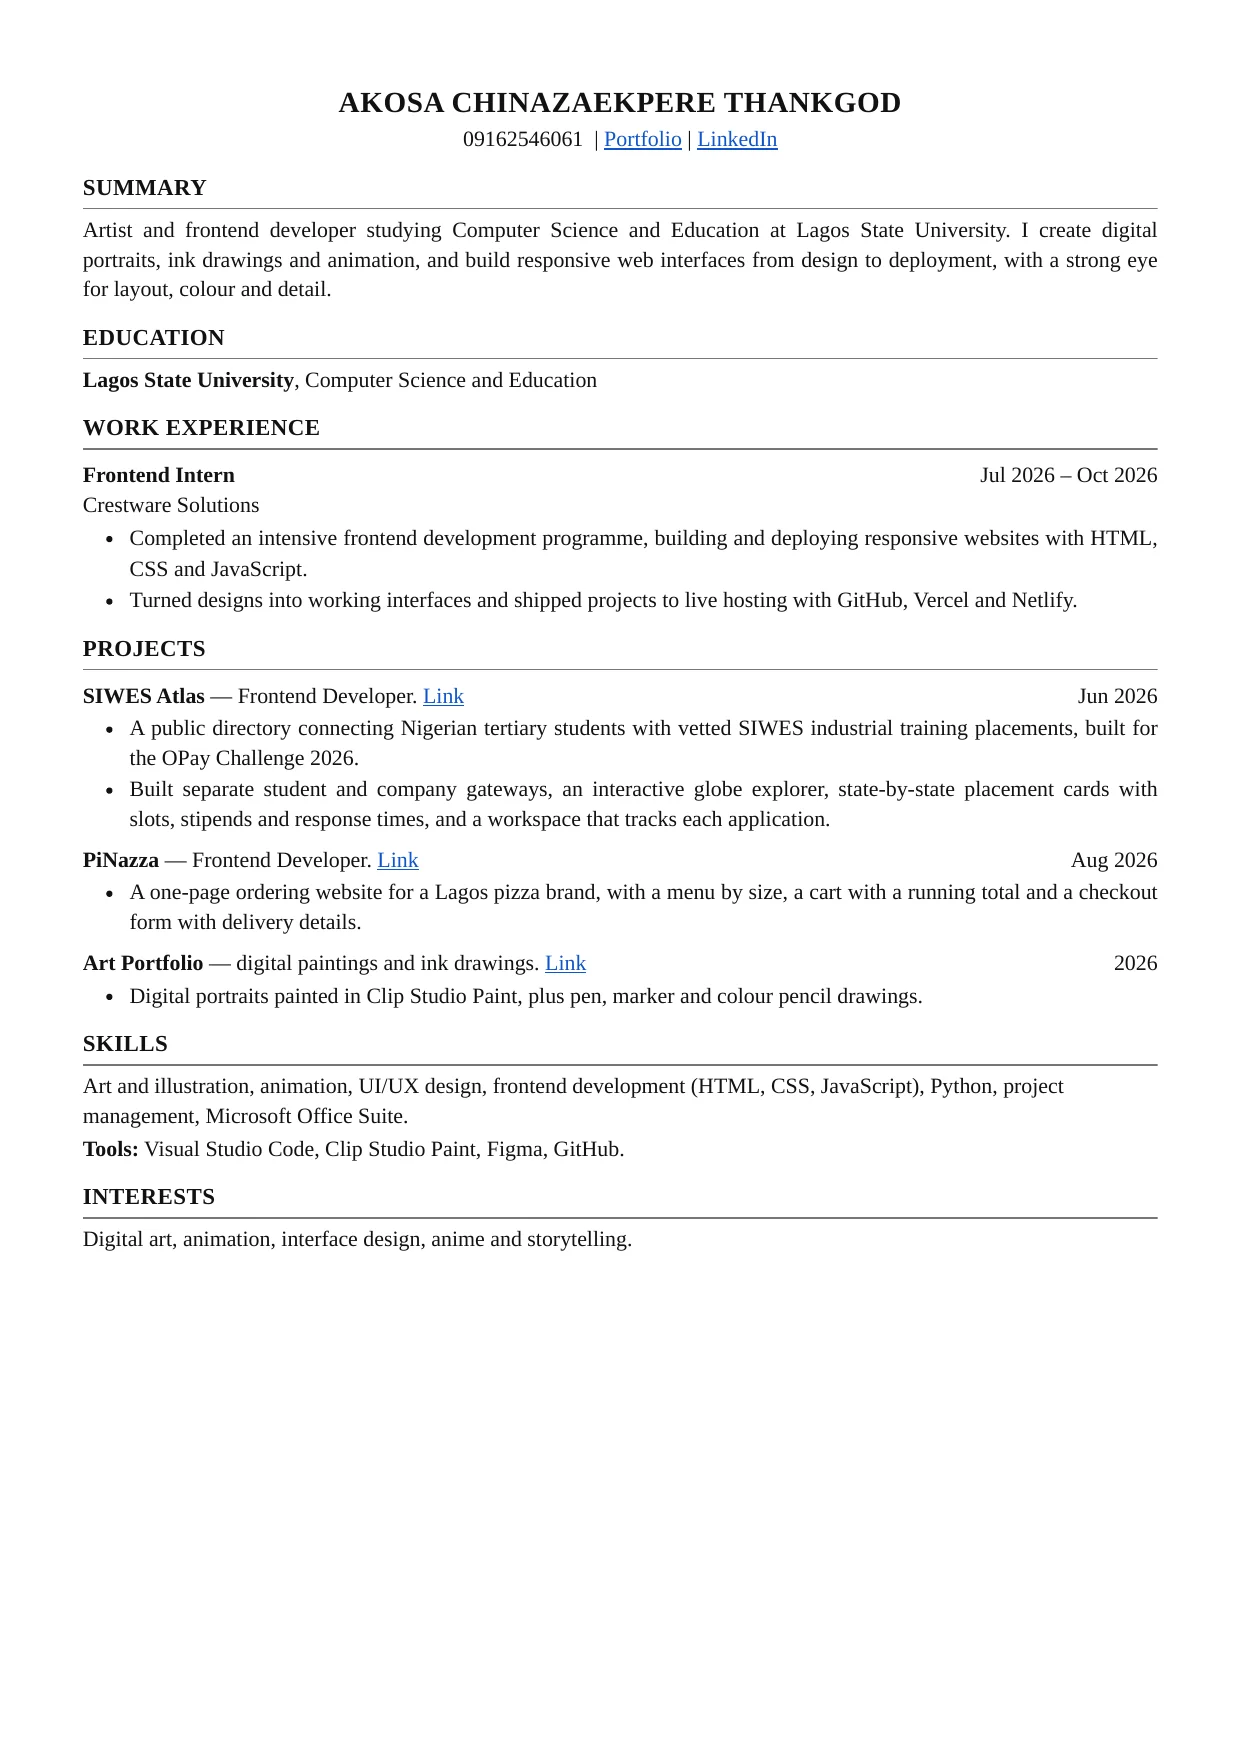
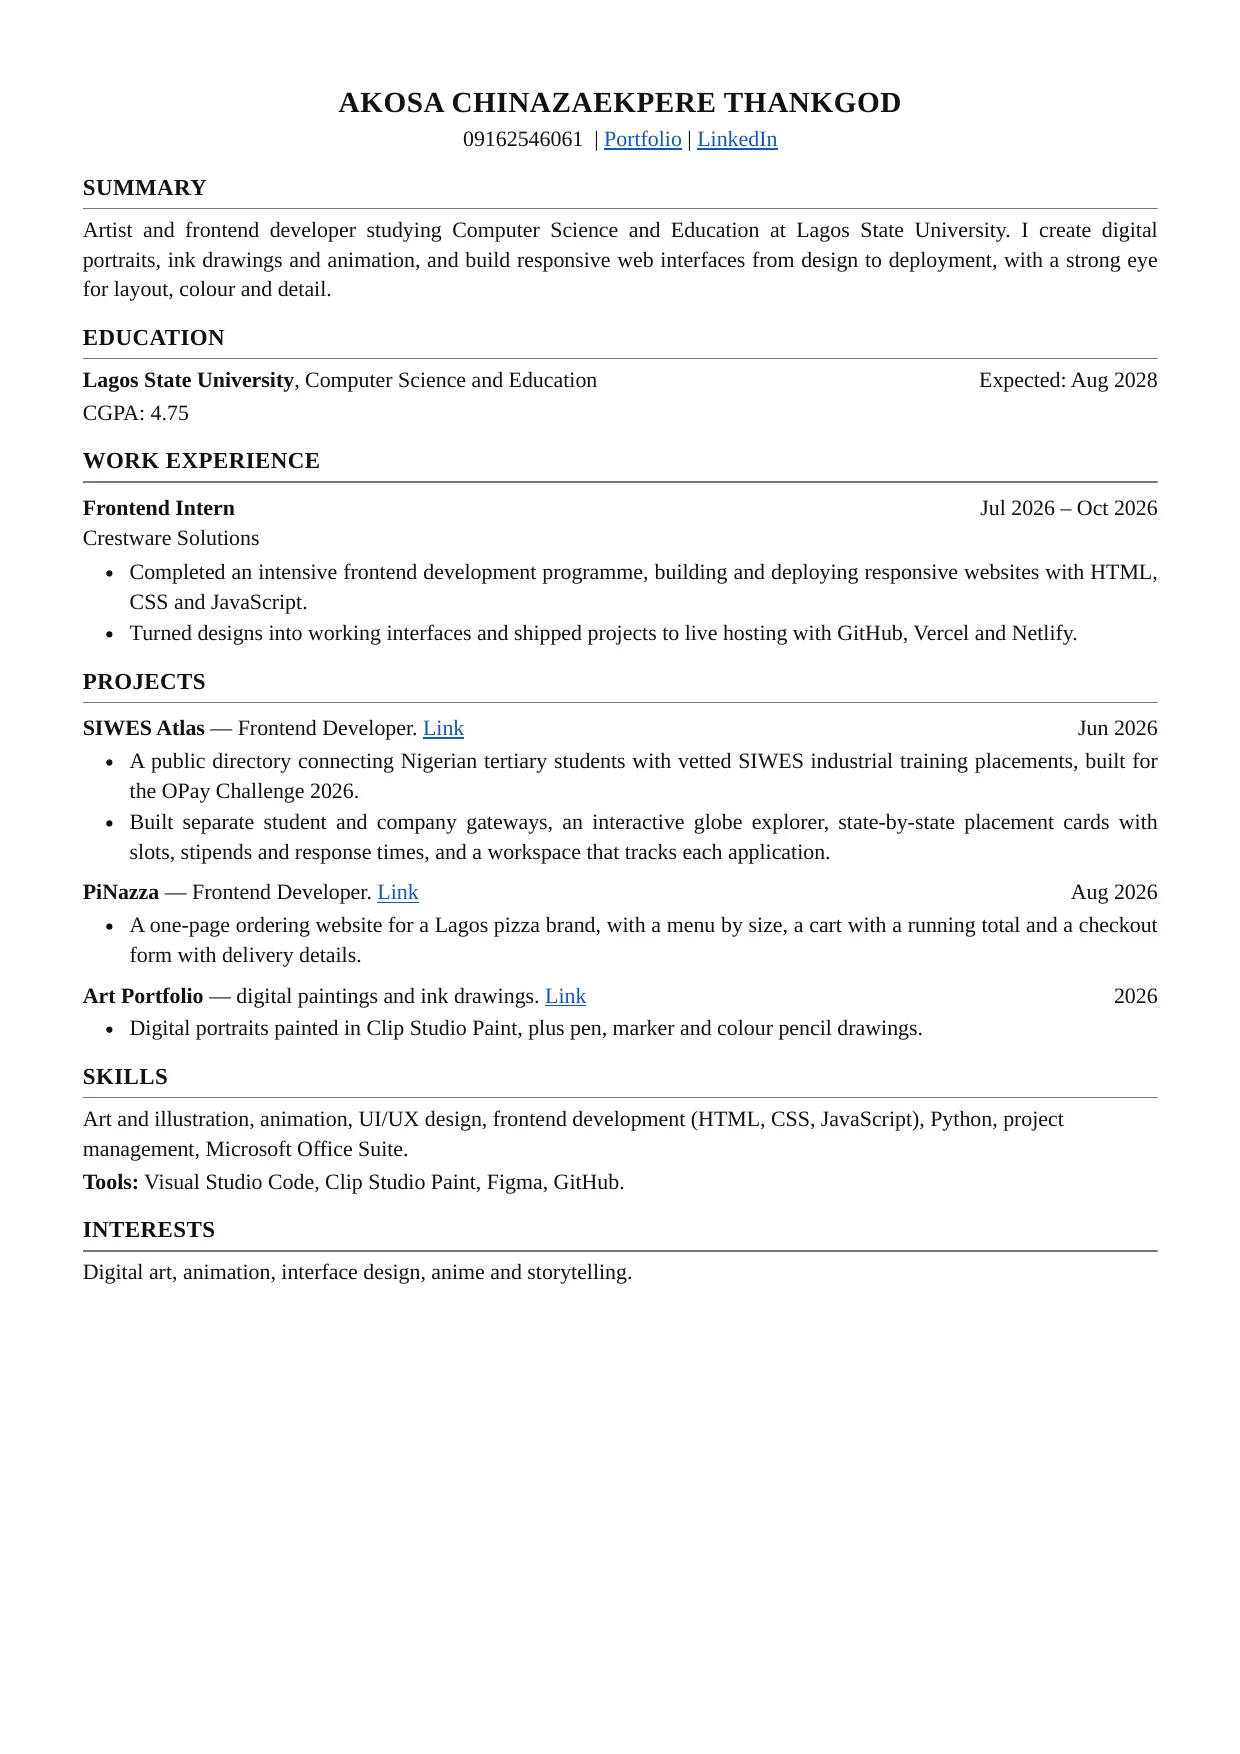
Google Sans Flex body, LinkedIn in menu, CGPA and graduation date on resume
Claude-Session: https://claude.ai/code/session_01FznZV5MkKYJcrxBuXv8rFi

Changed region(s): [[0.0613, 0.2155, 0.95, 0.7389]]

diff --git a/index.html b/index.html
@@ -13,13 +13,14 @@
 <link rel="preload" href="img/portrait.webp" as="image">
 <link rel="preconnect" href="https://fonts.googleapis.com">
 <link rel="preconnect" href="https://fonts.gstatic.com" crossorigin>
-<link href="https://fonts.googleapis.com/css2?family=IM+Fell+English:ital@0;1&family=Bricolage+Grotesque:opsz,wght@12..96,300..700&display=swap" rel="stylesheet">
+<link href="https://fonts.googleapis.com/css2?family=IM+Fell+English:ital@0;1&display=swap" rel="stylesheet">
+<link href="https://fonts.googleapis.com/css2?family=Google+Sans+Flex:wght@100..900&display=swap" rel="stylesheet">
 
 <style>
 :root{--bg:#f5f2ea;--card:#ece7dc;--line:#ddd7ca;--fg:#1c1a17;--muted:#6c675e;--soft:#9a958a;--acc:#b8322a}
 *{box-sizing:border-box}
 html{scroll-behavior:smooth;scroll-padding-top:72px}
-body{margin:0;background:var(--bg);color:var(--fg);font-family:'Bricolage Grotesque',system-ui,sans-serif;-webkit-font-smoothing:antialiased;line-height:1.5}
+body{margin:0;background:var(--bg);color:var(--fg);font-family:'Google Sans Flex',system-ui,sans-serif;-webkit-font-smoothing:antialiased;line-height:1.5}
 a{color:inherit}
 [hidden]{display:none !important}
 h1,h2,h3,.serif{font-family:'IM Fell English',Georgia,serif;font-weight:400}
@@ -65,7 +66,7 @@ body.lock{overflow:hidden}
 /* sections */
 section.blk{padding:72px 0 8px}
 .sh{font-size:34px;line-height:1;margin:0 0 22px;display:flex;align-items:baseline;gap:10px}
-.sh .n{font-family:'Bricolage Grotesque',sans-serif;font-size:16px;color:var(--soft)}
+.sh .n{font-family:'Google Sans Flex',sans-serif;font-size:16px;color:var(--soft)}
 
 /* gallery teaser */
 .gt{display:grid;grid-template-columns:repeat(4,minmax(0,1fr));gap:8px}
@@ -107,7 +108,7 @@ section.blk{padding:72px 0 8px}
 .cap{display:flex;justify-content:space-between;align-items:baseline;margin-top:12px;font-size:17px}
 .cap span:first-child{font-family:'IM Fell English',serif;font-size:22px}
 .cap span:last-child{color:var(--muted);font-size:15px}
-.cap small{display:block;font-family:'Bricolage Grotesque',sans-serif;font-size:14px;color:var(--muted)}
+.cap small{display:block;font-family:'Google Sans Flex',sans-serif;font-size:14px;color:var(--muted)}
 
 /* skills & tools */
 .ts{display:grid;grid-template-columns:minmax(0,1fr);gap:0}
@@ -243,7 +244,8 @@ section.blk{padding:72px 0 8px}
   <div class="sheet">
     <div class="row">
       <button class="iconbtn" id="closeMenu" aria-label="Close menu"><svg viewBox="0 0 24 24" aria-hidden="true"><path d="M6 6l12 12M18 6L6 18"></path></svg></button>
-      <span></span><span></span>
+      <span></span>
+      <div class="hicons"><a class="ico" href="https://www.linkedin.com/in/akosa-chinaza-a83200368" rel="noopener" aria-label="Akosa Chinaza on LinkedIn"><svg viewBox="0 0 24 24" aria-hidden="true"><path d="M20.45 20.45h-3.56v-5.57c0-1.33-.02-3.04-1.85-3.04-1.85 0-2.14 1.45-2.14 2.94v5.67H9.35V9h3.41v1.56h.05c.48-.9 1.64-1.85 3.37-1.85 3.6 0 4.27 2.37 4.27 5.46v6.28zM5.34 7.43a2.06 2.06 0 1 1 0-4.13 2.06 2.06 0 0 1 0 4.13zM7.12 20.45H3.56V9h3.56v11.45zM22.22 0H1.77C.79 0 0 .77 0 1.73v20.54C0 23.23.79 24 1.77 24h20.45c.98 0 1.78-.77 1.78-1.73V1.73C24 .77 23.2 0 22.22 0z"></path></svg></a></div>
     </div>
     <nav aria-label="Main">
       <a href="#top" data-close>home</a>

diff --git a/docs/cv-source.html b/docs/cv-source.html
@@ -27,7 +27,8 @@ a{color:#1155cc}
 <p style="text-align:justify">Artist and frontend developer studying Computer Science and Education at Lagos State University. I create digital portraits, ink drawings and animation, and build responsive web interfaces from design to deployment, with a strong eye for layout, colour and detail.</p>
 
 <h2>Education</h2>
-<div class="row"><span><b>Lagos State University</b>, Computer Science and Education</span><span></span></div>
+<div class="row"><span><b>Lagos State University</b>, Computer Science and Education</span><span>Expected: Aug 2028</span></div>
+<p>CGPA: 4.75</p>
 
 <h2>Work Experience</h2>
 <div class="role">
